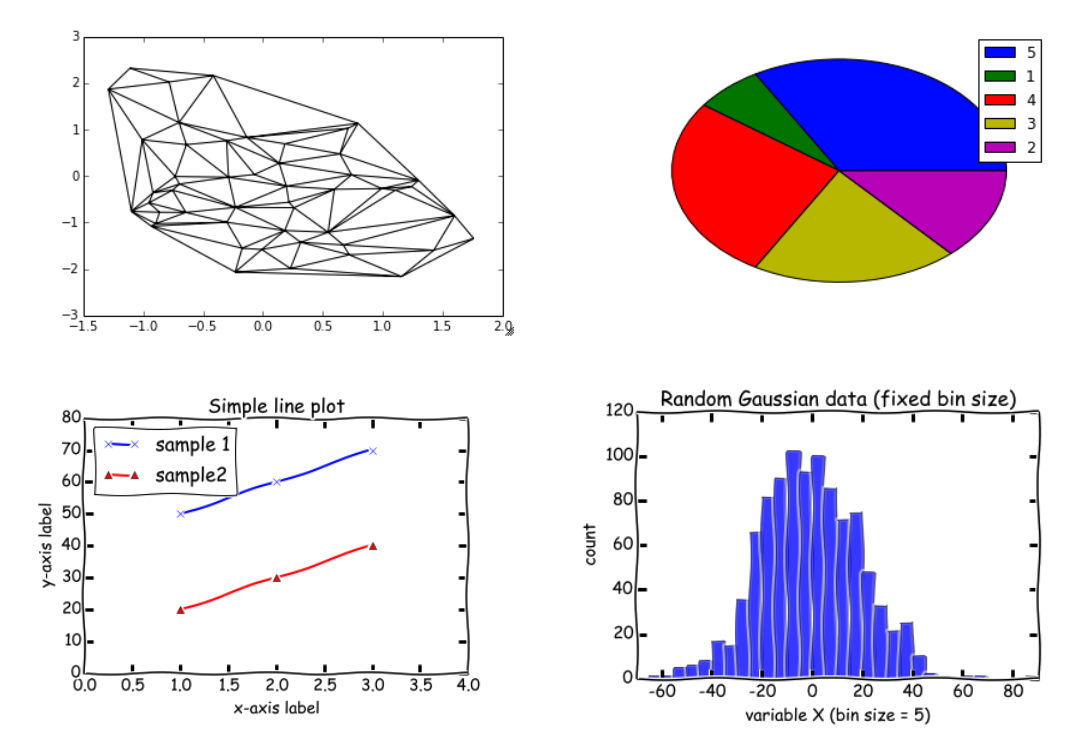
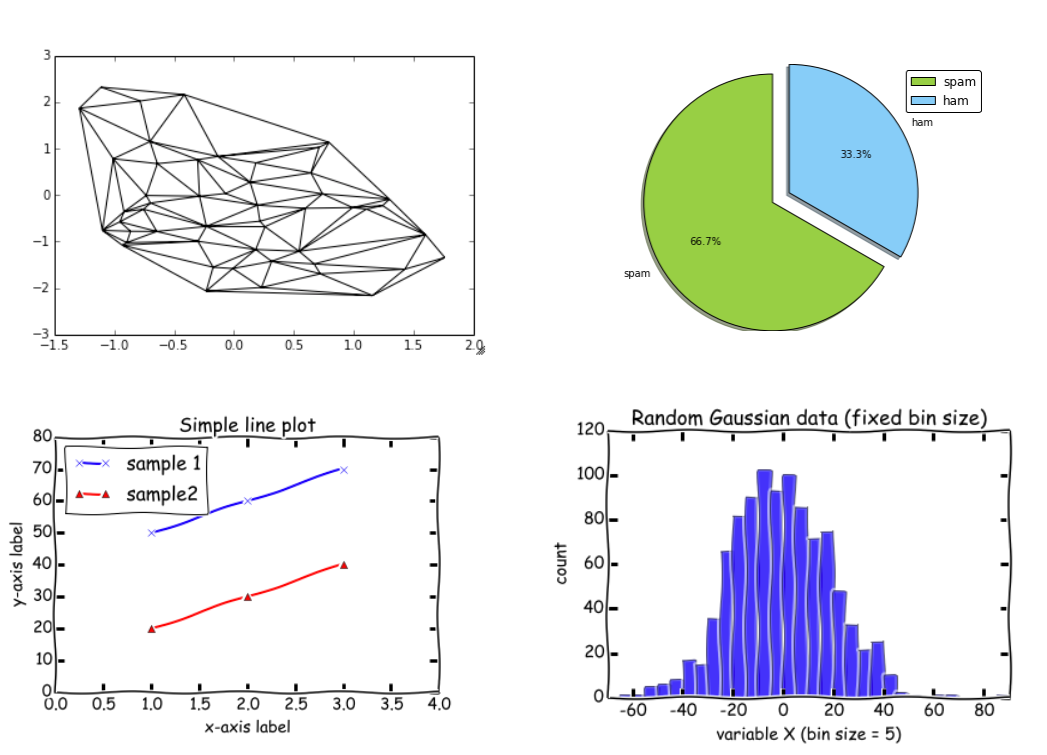
new bbeautiful pie chart

diff --git a/README.md b/README.md
@@ -18,7 +18,7 @@ This project is not connected to the gallery on [http://matplotlib.org/gallery.h
 - [Line plots](#line-plots)
 - [Preparing Plots for Publication](#preparing-plots-for-publication)
 - [Scatter plots](#scatter-plots)
-- [Triangulation](#triangulation)
+- [Special plots](#special-plots)
 
 <br>
 <br>
